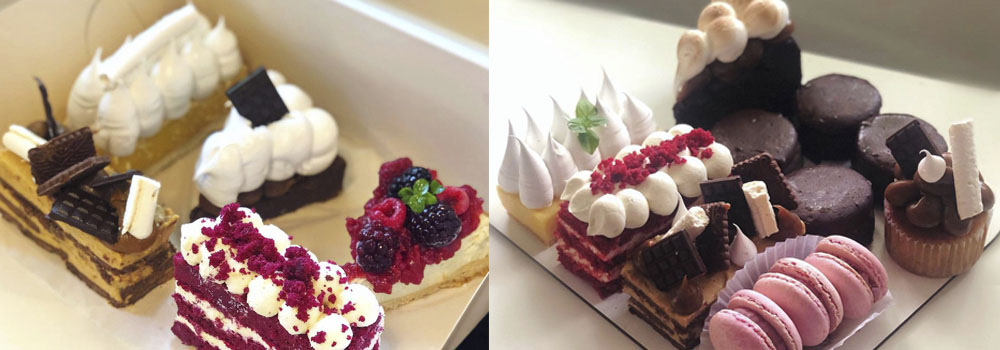
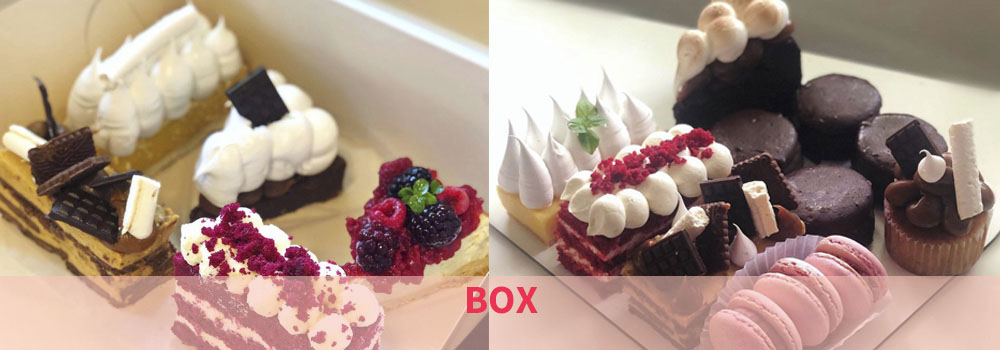
Proyecto Terminado2

Changed region(s): [[0.062, 0.7714, 0.992, 1.0], [0.0, 0.8571, 0.062, 1.0]]

diff --git a/index.html b/index.html
@@ -84,7 +84,7 @@
           <div class="carousel-item active">
             <img src="./fotos-juli/carousel1.2.jpg" class="d-block w-100" alt="Boxs Dulces">
             <div class="carousel-caption d-none d-md-block">
-              <h5>Boxs</h5>
+              
             </div>
           </div>
           <div class="carousel-item">
@@ -94,9 +94,9 @@
             </div>
           </div>
           <div class="carousel-item">
-            <img src="./fotos-juli/carousel3.jpg" class="d-block w-100" alt="Macarons">
+            <img src="./fotos-juli/carousel3.1.jpg" class="d-block w-100" alt="Macarons">
             <div class="carousel-caption d-none d-md-block">
-              <h5>Macarons</h5>
+              
             </div>
           </div>
         </div>

diff --git a/scss/componentes/_main.scss b/scss/componentes/_main.scss
@@ -14,16 +14,9 @@ main {
 }
 
 .carouselContainer {
-    display: flex;
     justify-content: center;
     align-items: center;
     // padding: 7rem 30rem;
-    
-        h5 {
-            font-size: 4rem;
-            font-weight: bold;
-            color: nth($colors, 2 );
-        }
         
 }
 
@@ -88,7 +81,8 @@ main {
     color: nth($colors , 3 );
     font-size: 1.5rem;
     grid-area: columnaDos;
-}}
+            }
+}
 
 .columnaTres 
 

diff --git a/css/style.css b/css/style.css
@@ -219,14 +219,8 @@ main {
 }
 
 .carouselContainer {
-  display: flex;
   justify-content: center;
   align-items: center;
-}
-.carouselContainer h5 {
-  font-size: 4rem;
-  font-weight: bold;
-  color: #EA3253;
 }
 
 .padreColumnas {
